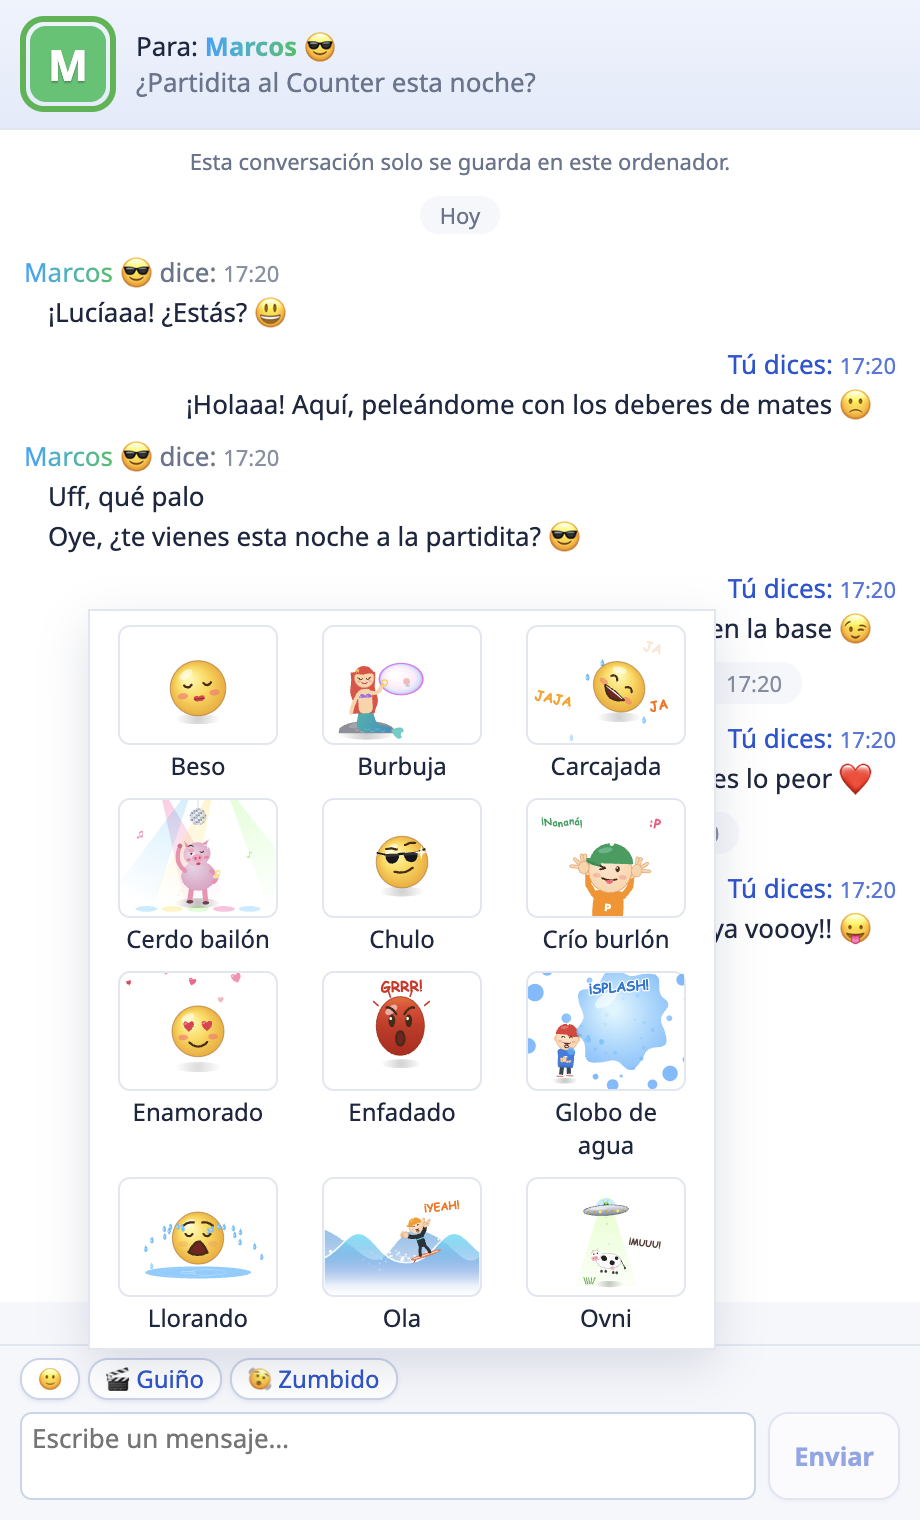
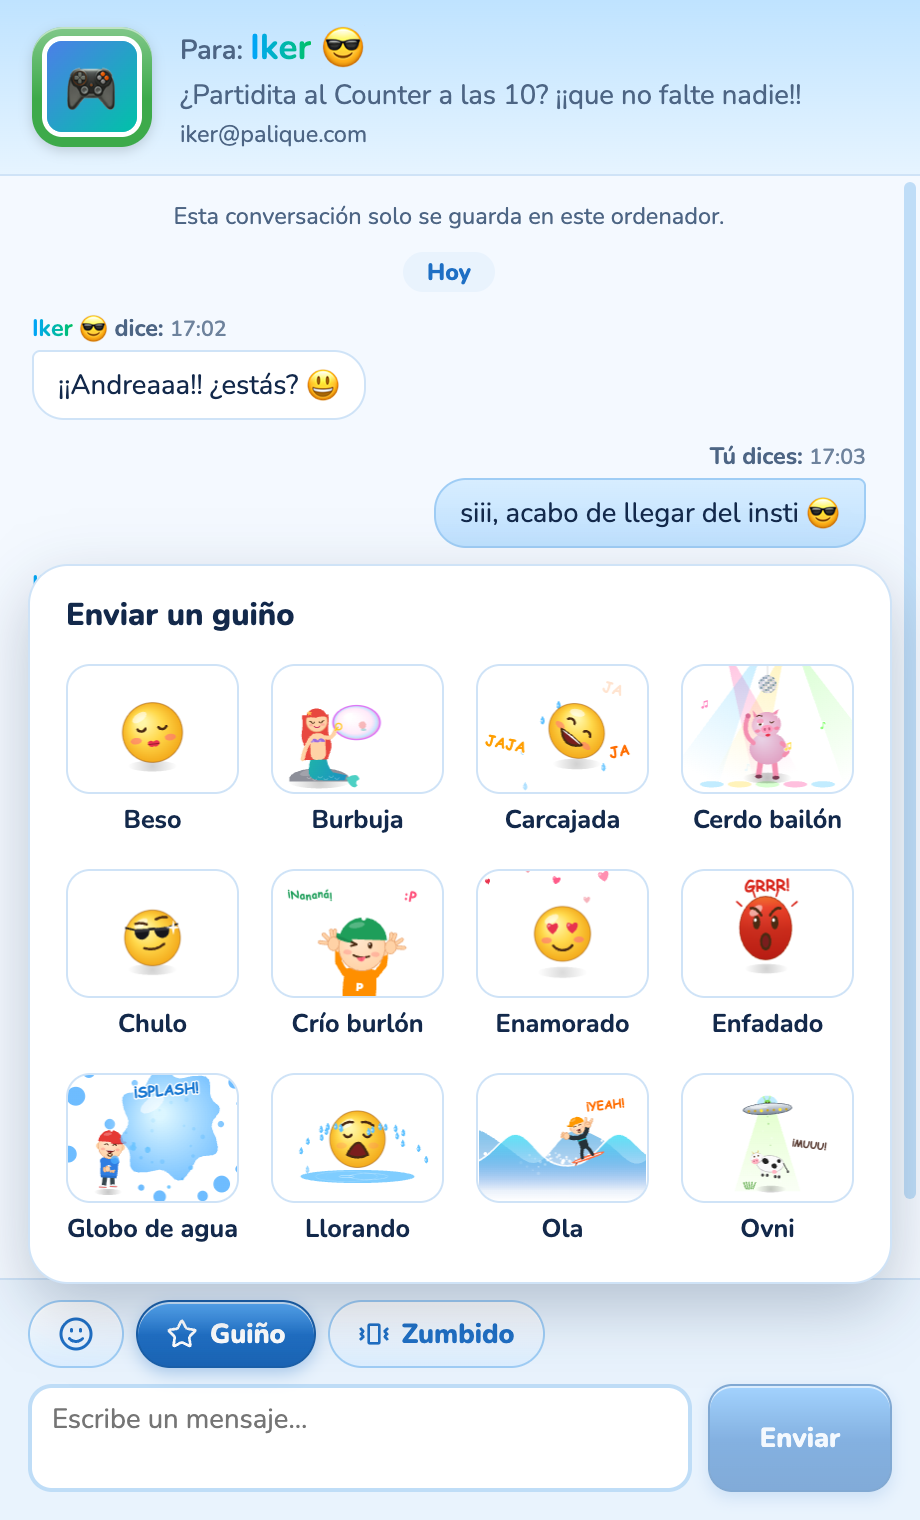
docs: new README screenshots, made by npm run screenshots
scripts/screenshots captures the built app off-screen, at double density, with mock friends and no server, so the screenshots can be made again when the design changes. The four old theme shots give way to Claro, Cálido and Oscuro.

diff --git a/README.md b/README.md
@@ -1,6 +1,6 @@
 <div align="center">
 
-<img src="build/icon.svg" width="140" alt="El logo de Palique: un bocadillo naranja que se ríe y tiembla con un zumbido, sobre fondo azul">
+<img src="build/icon.svg" width="140" alt="El logo de Palique: tres amigos de los colores de estado de palique; el verde, con gafas de sol, suelta un bombazo, uno alucina y otro se parte de risa">
 
 # Palique
 
@@ -18,9 +18,9 @@ y ese sonidito de cuando alguien se conecta.
 
 <br>
 
-<img src="docs/images/contactos.png" width="346" alt="La lista de contactos de Palique, con nombres de colores, estados y mensajes personales">
+<img src="docs/images/contactos.png" width="290" alt="La lista de contactos de Palique: nombres con colores y degradados, fotos, estados, mensajes personales, una solicitud de amistad y un contacto con mensajes sin leer">
 &nbsp;&nbsp;
-<img src="docs/images/conversacion.png" width="359" alt="Una conversación con emoticonos, un guiño y un zumbido">
+<img src="docs/images/conversacion.png" width="370" alt="Una conversación con emoticonos, un guiño, un zumbido y el «está escribiendo…»">
 
 </div>
 
@@ -49,28 +49,27 @@ Zumbidos que hacen temblar la ventana, los emoticonos de siempre y el mítico «
 
 Del beso al cerdo bailón, cada uno con su musiquilla. Nítidos a cualquier tamaño, también a pantalla completa.
 
-<p align="center"><img src="docs/images/guinos.png" width="240" alt="El selector de guiños"></p>
+<p align="center"><img src="docs/images/guinos.png" width="300" alt="El selector de guiños, con los doce guiños dibujados"></p>
 
 ### Tu nombre, a todo color
 
 Negrita, colores y degradados como en Messenger Plus!, sin instalar nada aparte.
 
-<p align="center"><img src="docs/images/nombre.png" width="340" alt="La ventana para cambiar tu nombre, con colores y degradados"></p>
+<p align="center"><img src="docs/images/nombre.png" width="340" alt="La ventana para cambiar tu nombre, con negrita, colores, fondos y degradados"></p>
 
 ### Hazlo tuyo
 
-Cuatro temas: Clásico, Retro, Cristal y Noche, de los azules de los 2000 al escritorio de los 90, y uno oscuro para cuando se apagan las luces. Además, eliges fuente (sí, hay una tipo Comic Sans), sonidos y estado, Invisible incluido.
+Tres temas con el cielo de siempre: Claro, Cálido para la tarde y Oscuro para cuando se apagan las luces. Además, eliges fuente (sí, hay una tipo Comic Sans), sonidos y estado, Invisible incluido.
 
 <p align="center">
-  <img src="docs/images/tema-clasico.png" width="180" alt="Tema Clásico">
-  <img src="docs/images/tema-retro.png" width="180" alt="Tema Retro">
-  <img src="docs/images/tema-cristal.png" width="180" alt="Tema Cristal">
-  <img src="docs/images/tema-noche.png" width="180" alt="Tema Noche">
+  <img src="docs/images/tema-claro.png" width="200" alt="Tema Claro">
+  <img src="docs/images/tema-calido.png" width="200" alt="Tema Cálido">
+  <img src="docs/images/tema-oscuro.png" width="200" alt="Tema Oscuro">
 </p>
 
 <p align="center">
-  <img src="docs/images/opciones-general.png" width="360" alt="Opciones: tema y fuente">
-  <img src="docs/images/opciones-sonidos.png" width="360" alt="Opciones: colecciones de sonidos">
+  <img src="docs/images/opciones-general.png" width="360" alt="Opciones: inicio, tema, fuente e idioma">
+  <img src="docs/images/opciones-sonidos.png" width="360" alt="Opciones: alertas y colecciones de sonidos">
 </p>
 
 ## Cómo empezar

diff --git a/AGENTS.md b/AGENTS.md
@@ -200,7 +200,7 @@ CI ([.github/workflows/checks.yml](.github/workflows/checks.yml)) runs typecheck
 
 ## Conventions
 
-- **Language:** UI text and user-facing emails are written in **Spanish** (Spain) and translated (see Translations). Code, comments, commit messages and this file are in **English**. `docs/` is Spanish, and so is README.md while the app is Spanish-only. Its screenshots are in `docs/images/`, taken from mock accounts (`@palique.com` addresses).
+- **Language:** UI text and user-facing emails are written in **Spanish** (Spain) and translated (see Translations). Code, comments, commit messages and this file are in **English**. `docs/` is Spanish, and so is README.md while the app is Spanish-only. Its screenshots are in `docs/images/`, made by `npm run screenshots` (`scripts/screenshots/`: the built app, off-screen, with mock friends at `@palique.com` addresses and no server).
 - **Commits:**
   - Conventional Commits in English, as in [CONTRIBUTING.md](CONTRIBUTING.md).
   - Small commits straight to `main`, pushed as you go; no PRs.
